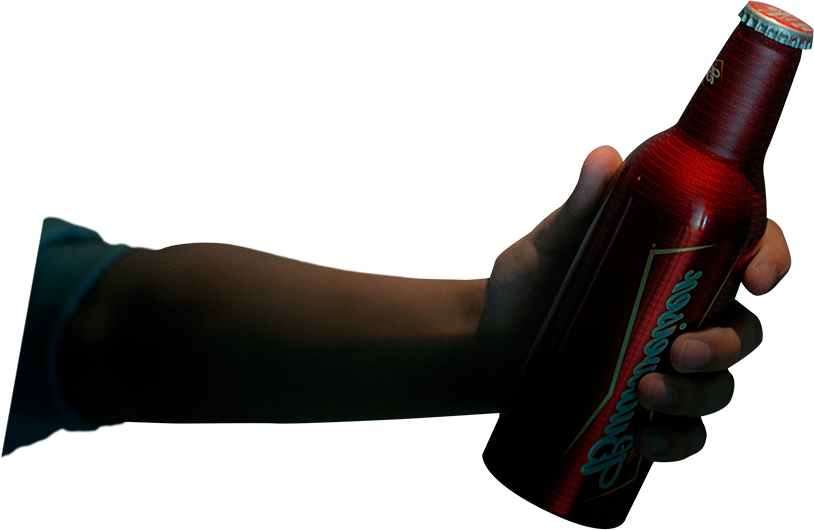
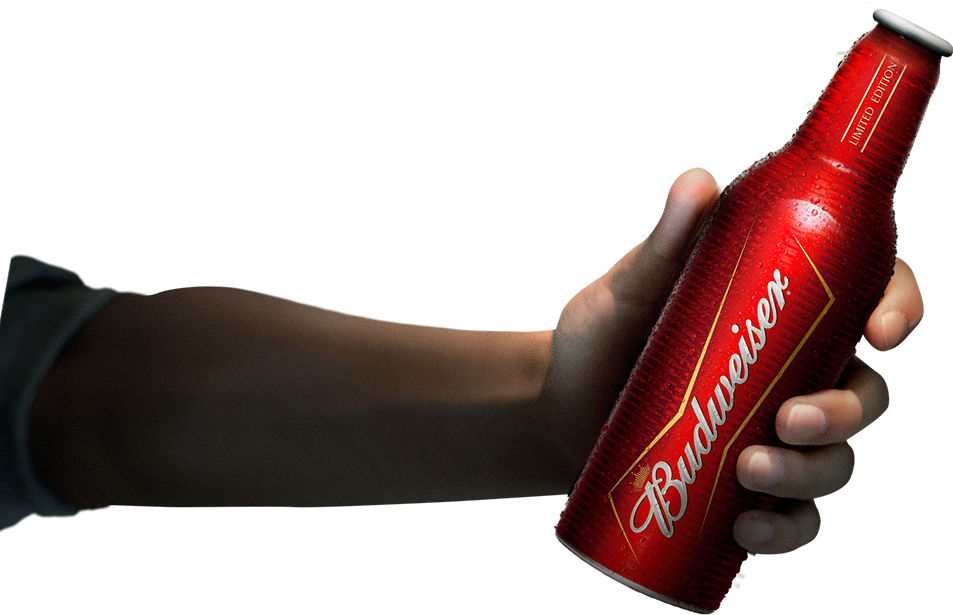
toast animation done

diff --git a/site/src/js/toast.js b/site/src/js/toast.js
@@ -1,54 +1,91 @@
 $(function () {
-	var $element = $('#hands');
+	var $element = $('#toast');
+	var $nextFrame = $('#frame1');
+
+	var $bg = $('.bg', $element);
+	var $dust = $('.dust', $element);
+
+	var $mainHand = $('#hand');
 
 	var $hand1 = $('.hand1', $element);
 	var $hand2 = $('.hand2', $element);
 	var $hand3 = $('.hand3', $element);
-
 	var $hand4 = $('.hand4', $element);
-	var $hand5 = $('.hand5', $element);
-	var $hand6 = $('.hand6', $element);
 
 
 	var endTransition = function () {
 		$element.hide();
-		$('#frame1').velocity({
-
-		}).trigger('start');
+		$nextFrame.trigger('start');
 	};
 
-	var time = 800;
-	var delayTime = 600;
-	var reverseTime = 900;
+	var time = 2000;
+	var reverseTime = 1800;
+
 
 	var animation_start = function () {
+		toast();
+	};
+
+	var toast = function () {
+		$dust.velocity({
+			translateY: "100%"
+		}, 4000, 'linear');
+
 		$hand1.velocity({
-			translateX: "103%"
-		}, time).delay(delayTime).velocity('reverse', reverseTime, 'linear');
+			translateX: "93%",
+			translateY: "-124%"
+		}, {
+			duration: time,
+			easing: [.37, 1.08, .43, 1.11]
+		}).velocity({
+			translateX: "0%",
+			translateY: "0%"
+		}, reverseTime, [.6, .06, .66, .2]);
 
 		$hand2.velocity({
 			translateX: "100%",
-			translateY: "-100%"
-		}, time).delay(delayTime).velocity('reverse', reverseTime, 'linear');
+			translateY: "-90%"
+		}, {
+			duration: time + 200,
+			easing: [ .34, 1.14, .39, 1.18]
+		}).velocity('reverse', reverseTime, [.6, .06, .66, .2]);
 
 		$hand3.velocity({
-			translateX: "-112%",
-			translateY: "-100%"
-		}, time).delay(delayTime).velocity('reverse', reverseTime, 'linear');
-
+			translateX: "-110%",
+			translateY: "-90%"
+		}, {
+			duration: time + 200,
+			easing: [ .34, 1.14, .39, 1.19]
+		}).velocity('reverse', reverseTime, [.6, .06, .66, .2]);
+//
 		$hand4.velocity({
-			translateX: "-102%",
-			translateY: "-101%"
-		}, time).delay(delayTime).velocity('reverse', reverseTime, 'linear');
+			translateX: "-90%",
+			translateY: "-30%"
+		}, {
+			duration: time + 200,
+			easing: [ .34, 1.14, .39, 1.19]
+		}).velocity('reverse', reverseTime, [.6, .06, .66, .2]);
 
-		$hand5.velocity({
-			translateX: "-100%",
-			translateY: "-70%"
-		}, time).delay(delayTime).velocity('reverse', reverseTime, 'linear');
-
-		$hand6.velocity({
-			translateX: "-100%"
-		}, time).delay(delayTime).velocity('reverse', reverseTime, 'linear', endTransition);
+		$mainHand.velocity({
+			translateY: "-78%"
+		}, {
+			duration: time + 200,
+			easing: [ .34, 1.14, .39, 1.19]
+		}).velocity({
+			translateY: "-22%"
+		}, {
+			duration: reverseTime,
+			easing: [.6, .06, .66, .2],
+			complete: endTransition,
+			begin: function () {
+				$bg.velocity({
+					opacity: 0
+				}, reverseTime);
+				$nextFrame.show().velocity({
+					opacity: 1
+				}, 2000);
+			}
+		});
 	};
 
 	$element.on('start', animation_start);

diff --git a/site/src/less/toast.less b/site/src/less/toast.less
@@ -1,6 +1,23 @@
-#hands {
-  background: #222 url('../img/hands-bg.jpg') left bottom;
-  background-size: cover;
+#toast {
+  .bg{
+    background: #222 url('../img/hands-bg.jpg') left bottom;
+    background-size: cover;
+  }
+
+  .dust {
+    position: absolute;
+    width: 55.3645%;
+    height: 39.444%;
+    background: url('../img/dust-toast.png') center bottom no-repeat;
+
+    top: -39.444%;
+    left: 20%;
+  }
+
+  .dust2 {
+    top: -15%;
+    left: 30%;
+  }
 
   .hand {
     position: absolute;
@@ -8,58 +25,40 @@
   }
 
   .hand1 {
-    z-index: 1;
+    z-index: 2;
     background: url('../img/hand1.png') right top no-repeat;
     .hand;
-    width: 42.3958333%;
-    height: 48.5792851%;
-    top: 29.3308891%;
-    left: -42.3958333%;
+    width: 49.6354167%;
+    height: 56.9444444%;
+    bottom: -56.9444444%;
+    left: -49.6354167%;
   }
   .hand2 {
     background: url('../img/hand2.png') right top no-repeat;
     .hand;
-    width: 46.9791667%;
-    height: 67.827681%;
-    bottom: -67.827681%;
-    left: -46.9791667%;
-    z-index: 2;
+    width: 49.3229167%;
+    height: 68.4259259%;
+    bottom: -68.4259259%;
+    left: -49.3229167%;
+    z-index: 1;
   }
   .hand3 {
     background: url('../img/hand3.png') right top no-repeat;
     .hand;
-    width: 49.84375%;
-    height: 76.5352887%;
-    bottom: -76.5352887%;
-    right: -49.84375%;
+    width: 45.8854167%;
+    height: 77.2222222%;
+    bottom: -77.2222222%;
+    right: -45.8854167%;
     z-index: 4;
   }
   .hand4 {
     background: url('../img/hand4.png') right top no-repeat;
     .hand;
-    width: 49.84375%;
-    height: 72.1356554%;
-    bottom: -72.1356554%;
-    right: -50.15625%;
+    width: 49.21875%;
+    height: 63.5185185%;
+    top: 50%;
+    right: -49.21875%;
     z-index: 3;
-  }
-  .hand5 {
-    background: url('../img/hand5.png') right top no-repeat;
-    .hand;
-    width: 45%;
-    height: 59.7616865%;
-    bottom: -30.7057745%;
-    right: -45%;
-    z-index: 2;
-  }
-  .hand6 {
-    background: url('../img/hand6.png') right top no-repeat;
-    .hand;
-    width: 40.9375%;
-    height: 48.9459212%;
-    top: 32.9055912%;
-    right: -40.9375%;
-    z-index: 1;
   }
 
   .bright {

diff --git a/site/src/js/preload.js b/site/src/js/preload.js
@@ -5,12 +5,17 @@ $(function () {
 		'img/bottle-desk-bg.jpg',
 		'img/engrave.png',
 		'img/hand.png',
-		'img/model1.png',
-		'img/model2.png'
+		'img/hand1.png',
+		'img/hand2.png',
+		'img/hand3.png',
+		'img/hand4.png',
+		'img/hands-bg.jpg',
+		'img/dust-toast.png',
+		'img/bright.png'
 	];
 
 	// Setting first animation here
-	var $FIRST_FRAME = $('#bottle');
+	var $FIRST_FRAME = $('#toast');
 
 	var imagesCount = imageNames.length;
 	var loadedImagesCount = 0;

diff --git a/site/src/index.html b/site/src/index.html
@@ -95,7 +95,10 @@
                 <div class="printer"></div>
             </div>
 
-            <div class="frame" id="hands">
+            <div class="frame" id="toast">
+                <div class="bg"></div>
+                <div class="dust"></div>
+                <div class="dust dust2"></div>
                 <div class="hand1"></div>
                 <div class="hand2"></div>
                 <div class="hand3"></div>

diff --git a/site/src/less/toy.less b/site/src/less/toy.less
@@ -2,10 +2,12 @@
   position: absolute;
   right: 0px;
   display: inline-block;
+
   img {
-    width: 60%;
+    width: 59.53125%;
     float: right;
   }
+  z-index: 10;
 }
 
 

diff --git a/site/src/less/main.less b/site/src/less/main.less
@@ -34,7 +34,7 @@ html, body {
   .frame {
     width: 100%;
     height: 100%;
-    position: relative;
+    position: absolute;
     display: none;
 
     .bg {
